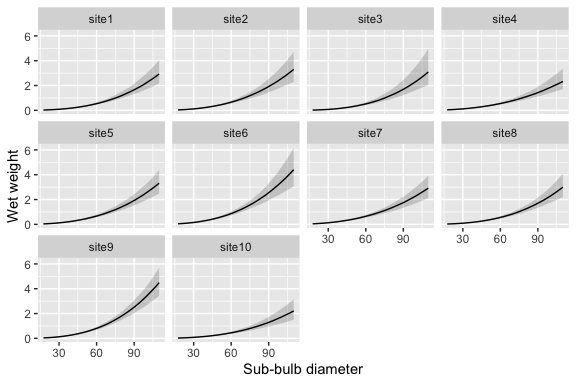
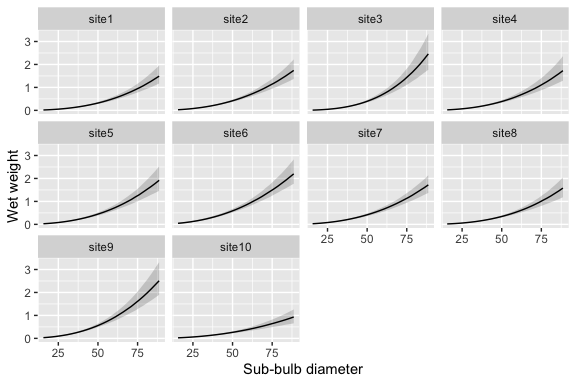
regen readme

diff --git a/README.md b/README.md
@@ -58,12 +58,12 @@ head(data_weight_sim_nereo)
 #> # A tibble: 6 × 4
 #>   diameter weight site  year 
 #>      <dbl>  <dbl> <fct> <fct>
-#> 1     53.8  0.473 site1 2019 
-#> 2     38.2  0.145 site1 2019 
-#> 3     25.2  0.051 site1 2019 
-#> 4     54.5  0.325 site1 2019 
-#> 5     25.6  0.045 site1 2019 
-#> 6     49.5  0.318 site1 2019
+#> 1     53.8  0.412 site1 2019 
+#> 2     38.2  0.183 site1 2019 
+#> 3     25.2  0.059 site1 2019 
+#> 4     54.5  0.523 site1 2019 
+#> 5     25.6  0.06  site1 2019 
+#> 6     49.5  0.411 site1 2019
 ```
 
 Fit the model with `kb_fit_weight_nereo()`:
@@ -87,19 +87,19 @@ glance(fit)
 #> # A tibble: 1 × 8
 #>       n     K nchains niters nthin   ess  rhat converged
 #>   <int> <int>   <int>  <dbl> <int> <dbl> <dbl> <lgl>    
-#> 1   234    10       2    400     1  182.  1.01 TRUE
+#> 1   234    10       2    400     1  201.  1.03 TRUE
 
 tidy(fit)
 #> # A tibble: 7 × 4
 #>   term          estimate   lower  upper
 #>   <chr>            <dbl>   <dbl>  <dbl>
-#> 1 bWeight         -1.34  -1.51   -1.17 
-#> 2 bDiameter        2.52   2.34    2.71 
-#> 3 bDiameter2       0.13  -0.0715  0.342
-#> 4 sSite            0.244  0.15    0.52 
-#> 5 sSiteDiameter    0.219  0.0727  0.439
-#> 6 sSiteYear        0.131  0.086   0.192
-#> 7 sWeight          0.171  0.151   0.196
+#> 1 bWeight        -1.47   -1.66   -1.24 
+#> 2 bDiameter       2.5     2.28    2.74 
+#> 3 bDiameter2      0.0749 -0.156   0.313
+#> 4 sSite           0.27    0.176   0.459
+#> 5 sSiteDiameter   0.313   0.169   0.62 
+#> 6 sSiteYear       0.0962  0.0521  0.149
+#> 7 sWeight         0.161   0.141   0.185
 ```
 
 Predict the weight-diameter curve for each site with
@@ -125,11 +125,11 @@ kb_predict_weight(fit, new_data)
 #> # A tibble: 5 × 5
 #>   diameter site  estimate  lower  upper
 #>      <dbl> <chr>    <dbl>  <dbl>  <dbl>
-#> 1       20 site1    0.032 0.0226 0.0459
-#> 2       35 site1    0.13  0.0955 0.179 
-#> 3       50 site1    0.331 0.24   0.463 
-#> 4       65 site1    0.672 0.473  0.953 
-#> 5       80 site1    1.18  0.844  1.68
+#> 1       20 site1   0.0302 0.0229 0.0393
+#> 2       35 site1   0.126  0.0975 0.162 
+#> 3       50 site1   0.319  0.242  0.421 
+#> 4       65 site1   0.647  0.49   0.85  
+#> 5       80 site1   1.12   0.842  1.52
 ```
 
 The fitted object exposes the standard `rstantools` generics
